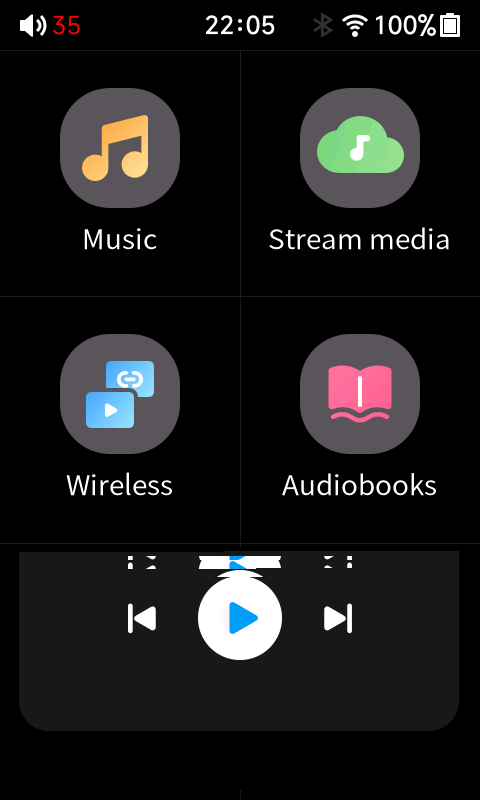
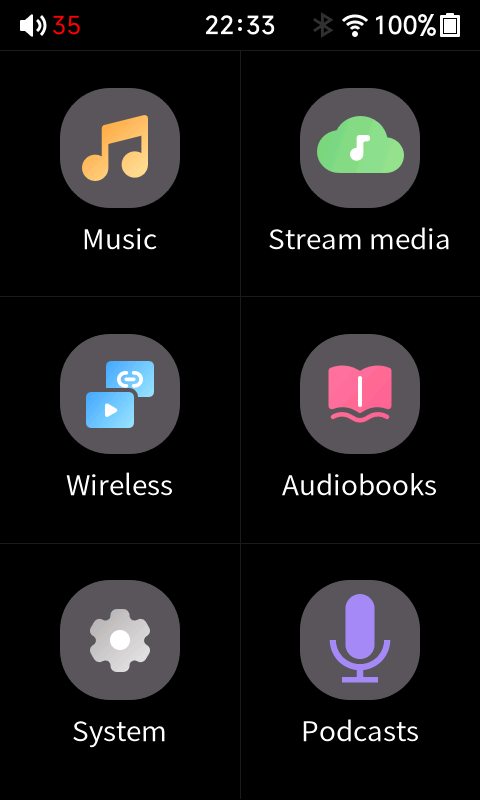
Unblank the framebuffer on wake, not just the backlight
Locking only dropped the backlight. If the player powered the framebuffer down
underneath us on its own display timeout, restoring brightness left a panel
that was lit but dead — a black screen no amount of pressing would recover,
which is the fault yetisoldier fixed in the audiobook mod's v2.0.26 and which
this app had in the same form.

Waking now issues FBIOBLANK/FB_BLANK_UNBLANK unconditionally. It costs nothing
when the panel was never blanked. The brightness restore also no longer trusts
the saved value: a 0 or an unreadable node would otherwise restore to darkness,
which looks exactly like the failure it is meant to prevent.

Also replaces the launcher screenshot, which had caught the Bluetooth media
overlay across the bottom row of tiles.

diff --git a/app/podcast_hook.c b/app/podcast_hook.c
@@ -178,6 +178,8 @@ static int  vol_show_frames;     /* countdown: draw the volume overlay */
 static int  vol_pct = -1;        /* last known, for the overlay */
 static int  locked;              /* screen off, touch ignored, audio keeps going */
 static int  saved_brightness = -1;
+static int  g_fbfd = -1;         /* set once the frame loop owns /dev/fb0 */
+#define DEFAULT_BRIGHTNESS 43    /* the panel's stock level */
 static char bt_mixer_name[64];   /* bluealsa element, named after the device */
 
 static int read_int_file(const char *path) {
@@ -267,14 +269,24 @@ static void adjust_volume(int delta_pct) {
     vol_show_frames = 110;             /* ~3.5s at 30fps */
 }
 
+/* Locking only drops the backlight, which keeps waking cheap and lets audio run
+ * on undisturbed. Waking has to do more: the player can power the framebuffer
+ * down underneath us on its own display timeout, and restoring brightness to a
+ * blanked panel leaves a black screen that no amount of pressing will bring
+ * back. So unblank unconditionally — it costs nothing when the panel was never
+ * blanked, and it is the difference between a dark screen and a dead one. */
 static void set_locked(int on) {
     if (on == locked) return;
     locked = on;
     if (on) {
         saved_brightness = read_int_file(BACKLIGHT);
         write_int_file(BACKLIGHT, 0);
-    } else if (saved_brightness > 0) {
-        write_int_file(BACKLIGHT, saved_brightness);
+    } else {
+        if (g_fbfd >= 0) ioctl(g_fbfd, FBIOBLANK, FB_BLANK_UNBLANK);
+        /* A brightness of 0 or an unreadable node would otherwise restore to
+         * darkness, which is indistinguishable from the failure above. */
+        write_int_file(BACKLIGHT,
+                       saved_brightness > 0 ? saved_brightness : DEFAULT_BRIGHTNESS);
     }
     plog("[podcast] %s\n", on ? "locked" : "unlocked");
 }
@@ -927,6 +939,7 @@ static int podcast_entry(void *arg0, void *arg1) {
 
     int fbfd = open("/dev/fb0", O_RDWR);
     if (fbfd < 0) { plog("[podcast] no fb: %s\n", strerror(errno)); return 0; }
+    g_fbfd = fbfd;                      /* so unlocking can unblank the panel */
 
     struct fb_var_screeninfo v;
     if (ioctl(fbfd, FBIOGET_VSCREENINFO, &v) < 0) {
